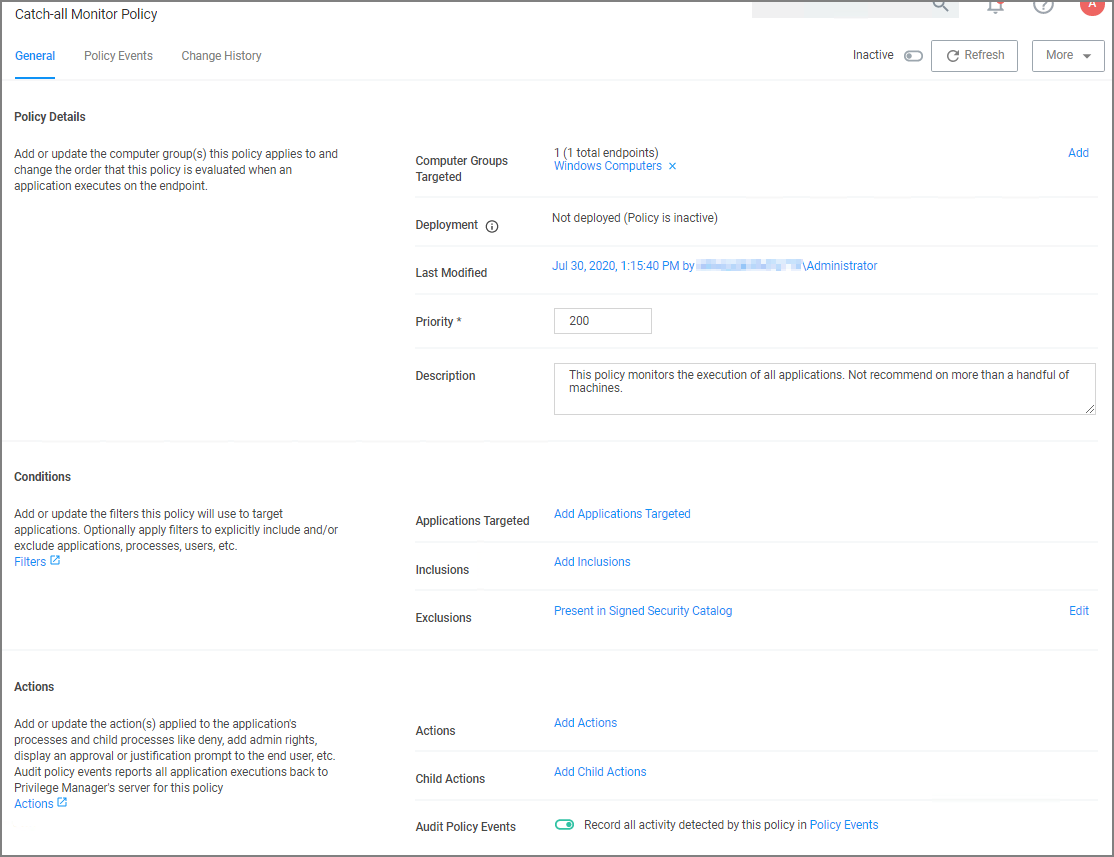
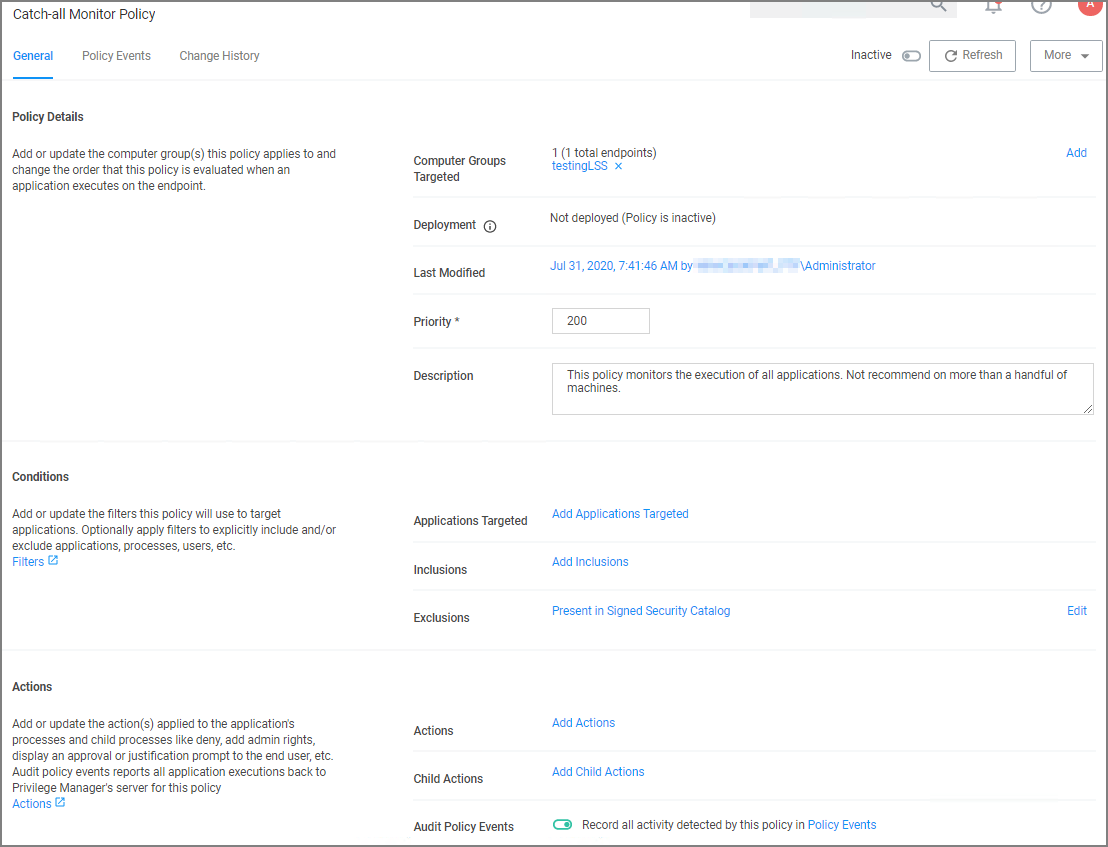
updates based on review feedback

diff --git a/computer-groups/app-control/examples/monitor/catch-all.md b/computer-groups/app-control/examples/monitor/catch-all.md
@@ -1,28 +1,26 @@
 [title]: # (Catch-All Policy)
 [tags]: # (greylist)
-[priority]: # (4501)
+[priority]: # (5)
 # Catch-All Policy
 
 A useful Learning Mode Policy to set up in Production environments is called a Catch-All Policy. This type of policy will gather information on any executables in your environment that are not satisfied by other Privilege Manager policies.
 
-1. Under your Computer Groups select __Application Policies__ and click __Create Policy__.
+>**Note**: These types of Catch-all monitor policies SHOULD NOT BE used for the Windows or Mac OS Computer Groups. Those groups apply to ALL computers in the environment and unless a monitor policy like this is setup to work with really good allow policies in front a lot of events will be sent.
+
+1. Under your Computer Group for which you want to monitor all activities select __Application Policies__ and click __Create Policy__.
 1. From the Policy Wizard select __Monitoring__ and click __Next Step__.
 1. Select __Everything__ and click __Next Step__.
 1. Enter a name, for example _Catch-all Monitor Policy_.
 1. Click __Create Policy__.
 
    ![policy](images/catch-all-1.png "Catch-All Policy")
-1. Under Computer Groups Targeted, click __Add__.
-1. Search for and add __Application Compatibility Testing Windows Computers (Target)__.
-1. Click __Update__.
-1. Click the __x__ next to __Windows Computers__ and confirm to remove this target.
 1. Customize the policies Conditions, Actions, and Policy Enforcement, for example:
    * Under Applications Targeted, click __Add Application Target__ and search for and add __Interactive Users__.
    * Under Exclusions, click __Edit__ and add __LocalSystem and Service applications__ to the exclusion list.
+
+     ![customized](images/catch-all-2.png "Customized catch-all monitoring policy")
    * Under __Show Advanced | Policy Enforcement__ set the switch for __Stage 2 Processing__ to active an all others to inactive.
+
+     ![enforcement](images/catch-all-3.png "Policy Enforcement settings")
 1. Click __Save Changes__
-
-   ![customized](images/catch-all-2.png "Customized catch-all monitoring policy")
-
-   ![enforcement](images/catch-all-3.png "Policy Enforcement settings")
 1. Set the __Inactive__ switch to __Active__.

diff --git a/computer-groups/app-control/examples/monitor/reputation.md b/computer-groups/app-control/examples/monitor/reputation.md
@@ -1,6 +1,6 @@
 [title]: # (Reputation Checking)
 [tags]: # (monitoring)
-[priority]: # (4502)
+[priority]: # (5)
 # Reputation Checking
 
 Privilege Manager analyzes applications in real-time.  This unique feature allows for reputation analysis of any unknown applications that will mitigate endpoint attacks from Ransomware, Zero-day attacks, Drive-by Downloads, and other unknown malicious software.
